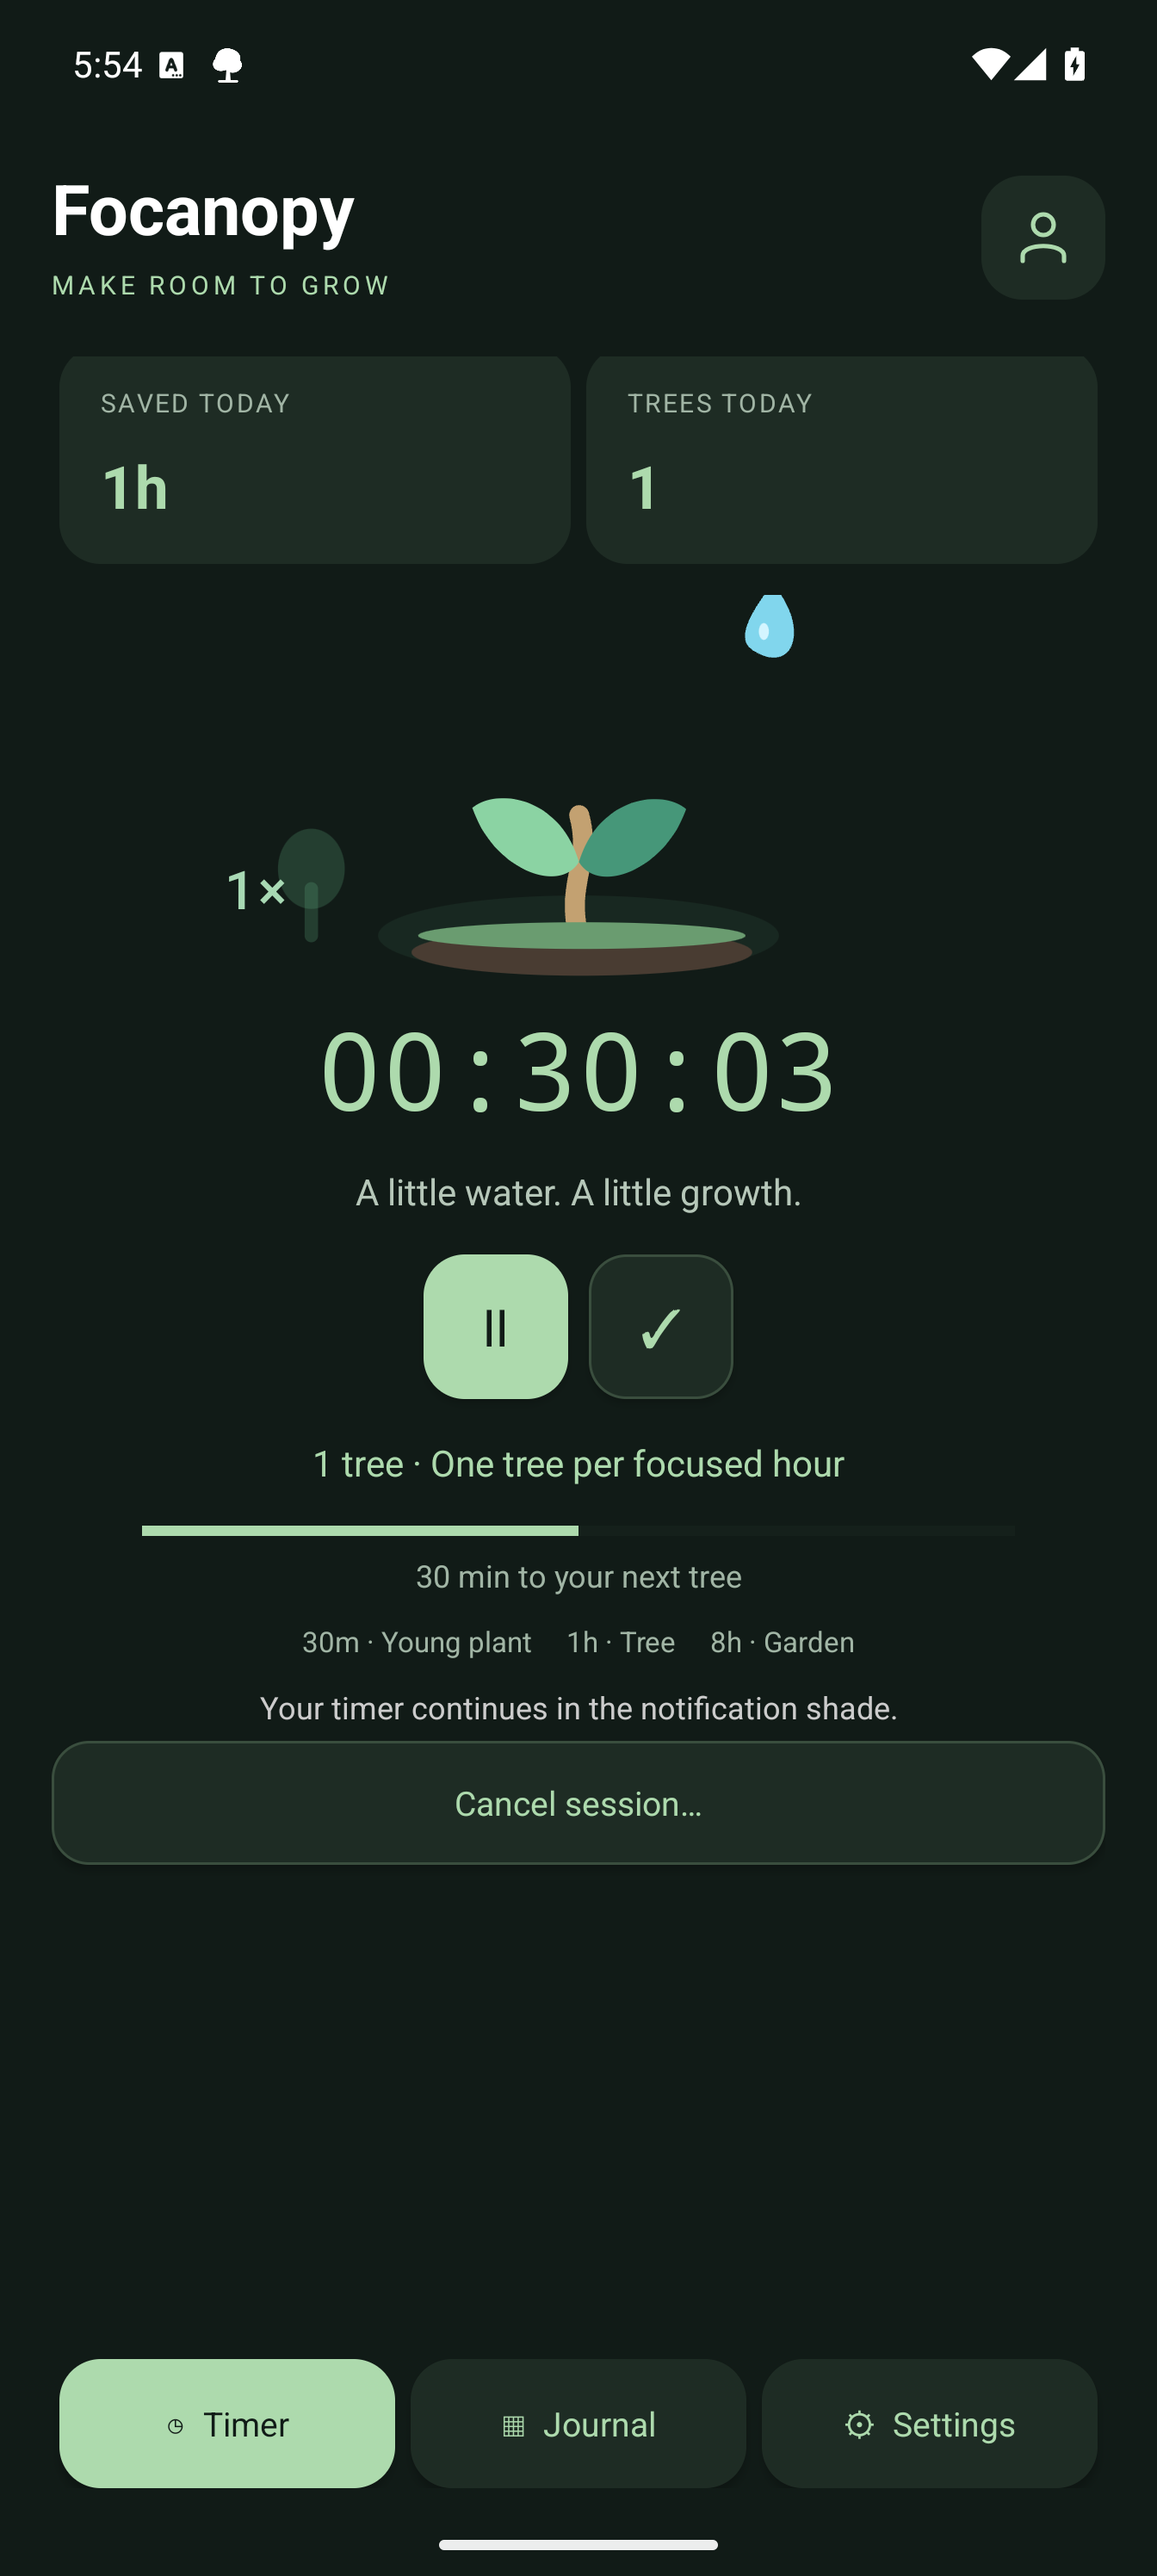
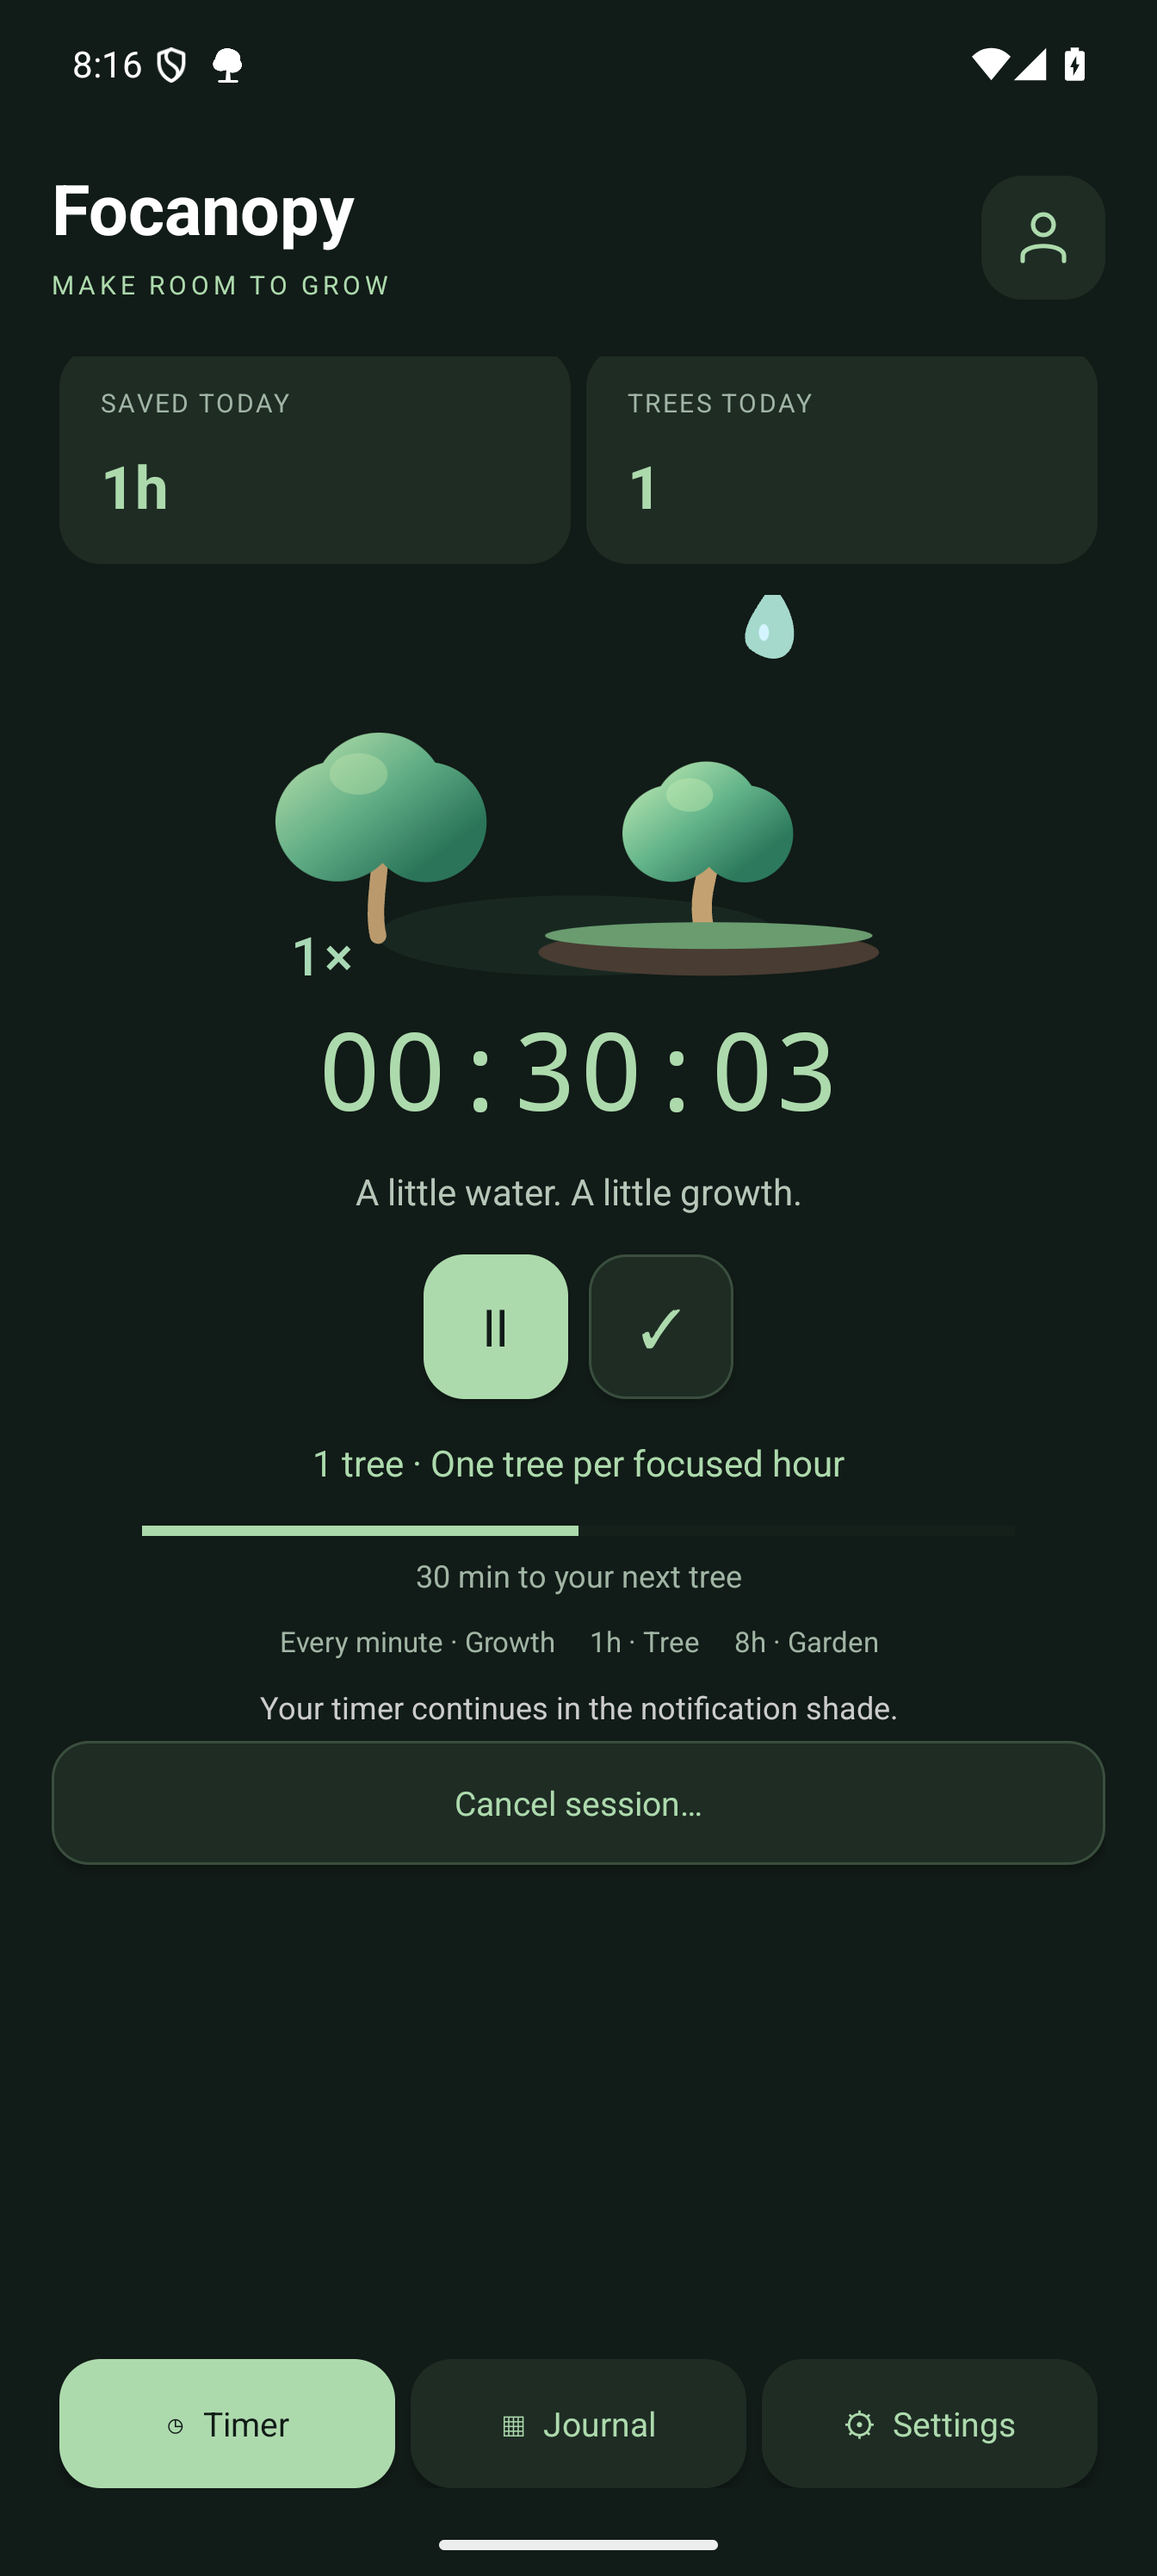
Polish finished-session controls and document native app screens

diff --git a/android/app/src/main/java/com/cybercat/stopwatch/MainActivity.kt b/android/app/src/main/java/com/cybercat/stopwatch/MainActivity.kt
@@ -179,13 +179,13 @@ class MainActivity: Activity() {
         growthBar=ProgressBar(this,null,android.R.attr.progressBarStyleHorizontal).apply { max=1000; progressTintList=android.content.res.ColorStateList.valueOf(cyan); progressBackgroundTintList=android.content.res.ColorStateList.valueOf(surface); contentDescription="Progress to next tree" }
         root.addView(growthBar,LinearLayout.LayoutParams(-1,dp(8)).apply { setMargins(dp(35),dp(8),dp(35),0) })
         growthHint=text("",12f,Color.rgb(161,181,165)).apply { gravity=Gravity.CENTER }; root.addView(growthHint); updateGrowth()
-        root.addView(text("30m · Young plant     1h · Tree     8h · Garden",11f,Color.rgb(161,181,165)).apply { gravity=Gravity.CENTER })
+        root.addView(text("Every minute · Growth     1h · Tree     8h · Garden",11f,Color.rgb(161,181,165)).apply { gravity=Gravity.CENTER })
         if(phase=="idle") {
             root.addView(text("Grow here, or take your tree with you.",13f,Color.LTGRAY).apply { gravity=Gravity.CENTER })
             root.addView(button("Floating tree options") { tab="Settings"; render() })
         } else {
-            root.addView(text("Your timer continues in the notification shade.",12f,Color.LTGRAY).apply { gravity=Gravity.CENTER })
-            root.addView(button("Cancel session…") { AlertDialog.Builder(this).setTitle("Discard this session?").setMessage("This session won’t be saved.").setNegativeButton("Keep session",null).setPositiveButton("Discard") { _,_-> safe { Repository.discard(); service("SYNC"); render() } }.show() })
+            root.addView(text(if(phase=="finished") "Session stopped · Save, resume or reset when you’re ready." else "Your timer continues in the notification shade.",12f,Color.LTGRAY).apply { gravity=Gravity.CENTER })
+            if(phase!="finished") root.addView(button("Cancel session…") { AlertDialog.Builder(this).setTitle("Discard this session?").setMessage("This session won’t be saved.").setNegativeButton("Keep session",null).setPositiveButton("Discard") { _,_-> safe { Repository.discard(); service("SYNC"); render() } }.show() })
         }
     }
     private fun saveDialog() {
@@ -208,7 +208,7 @@ class MainActivity: Activity() {
         }
         content.addView(text("Close to save later, resume, or reset from the timer screen.",12f,Color.LTGRAY))
         val dialog=AlertDialog.Builder(this).setIcon(R.mipmap.ic_launcher).setTitle("What did you work on?").setView(content).setNegativeButton("Close",null).setPositiveButton("Save",null).create()
-        dialog.setOnDismissListener { naming=false }
+        dialog.setOnDismissListener { naming=false; if(!isFinishing && !isDestroyed && Repository.engine.phase=="finished") render() }
         dialog.setOnShowListener { dialog.getButton(AlertDialog.BUTTON_POSITIVE).setOnClickListener {
             safe { val day=dayOf(Repository.started); Repository.save(name.text.toString()); service("SYNC"); dialog.dismiss(); tab="Journal"; selected=day; month=YearMonth.from(day); scope="Day"; render() }
         } }; dialog.show()

diff --git a/android/app/src/androidTest/java/com/cybercat/stopwatch/SmokeInstrumentation.kt b/android/app/src/androidTest/java/com/cybercat/stopwatch/SmokeInstrumentation.kt
@@ -79,6 +79,9 @@ class SmokeInstrumentation:Instrumentation() {
             val export=java.io.File(targetContext.filesDir,"export-test.json")
             runOnMainSync { MainActivity::class.java.getDeclaredMethod("onActivityResult",Int::class.javaPrimitiveType,Int::class.javaPrimitiveType,Intent::class.java).apply { isAccessible=true }.invoke(activity,42,Activity.RESULT_OK,Intent().setData(android.net.Uri.fromFile(export))) }
             check(JSONArray(export.readText()).getJSONObject(0).getString("name")=="MVP renamed")
+            runOnMainSync { find(activity.window.decorView,"Timer")!!.performClick();find(activity.window.decorView,"Start or resume")!!.performClick();find(activity.window.decorView,"Finish session")!!.performClick() }
+            waitForIdleSync();tap("Close");tap("Reset timer");tap("Reset")
+            check(Repository.engine.phase=="idle" && Repository.sessions.single().getString("name")=="MVP renamed")
             fun shell(command:String)=android.os.ParcelFileDescriptor.AutoCloseInputStream(uiAutomation.executeShellCommand(command)).bufferedReader().use { it.readText() }
             shell("appops set ${targetContext.packageName} SYSTEM_ALERT_WINDOW allow")
             runOnMainSync { find(activity.window.decorView,"Settings")!!.performClick();find(activity.window.decorView,"Show floating tree")!!.performClick() }

diff --git a/android/app/src/androidTest/java/com/cybercat/stopwatch/ForestInstrumentation.kt b/android/app/src/androidTest/java/com/cybercat/stopwatch/ForestInstrumentation.kt
@@ -48,6 +48,10 @@ class ForestInstrumentation:Instrumentation() {
             android.os.SystemClock.sleep(1500);waitForIdleSync()
             fun screenshot(name:String) { android.os.SystemClock.sleep(900); waitForIdleSync(); uiAutomation.takeScreenshot()!!.let { image -> targetContext.openFileOutput(name,0).use { image.compress(Bitmap.CompressFormat.PNG,100,it) };image.recycle() } }
             screenshot("android-timer.png")
+            runOnMainSync { find(activity.window.decorView,"Finish session")!!.performClick() }
+            waitForIdleSync();screenshot("android-save.png")
+            uiAutomation.rootInActiveWindow.findAccessibilityNodeInfosByText("Close").first { it.text?.toString()?.equals("Close",true)==true }.performAction(android.view.accessibility.AccessibilityNodeInfo.ACTION_CLICK)
+            waitForIdleSync();screenshot("android-finished.png")
             runOnMainSync { Repository.discard(); targetContext.startService(Intent(targetContext,TimerService::class.java).setAction("SYNC")); find(activity.window.decorView,"Journal")!!.performClick() }
             waitForIdleSync();screenshot("android-journal.png")
             runOnMainSync { find(activity.window.decorView,"Settings")!!.performClick() }

diff --git a/macos/Tools/RenderScreenshots.swift b/macos/Tools/RenderScreenshots.swift
@@ -35,6 +35,8 @@ import AppKit
         }
         try render(HistoryView(model: model), name: "macos-journal.png", width: 980, height: 800)
         try render(PetView(model: model, showOptions: { _ in }, primary: {}, finish: {}), name: "macos-pet.png", width: 150, height: 100)
+        model.start(); model.finish()
+        try render(PetView(model:model,showOptions:{ _ in },primary:{},finish:{}),name:"macos-finished.png",width:150,height:100)
         try render(GrowingTree(phase:.paused,elapsed:{2701}).scaleEffect(2.5),name:"macos-tree-paused.png",width:330,height:174)
         try render(GrowingTree(phase:.running,elapsed:{2701}).scaleEffect(2.5),name:"macos-tree-running.png",width:330,height:174)
         print("Rendered macOS native screenshots")

diff --git a/README.md b/README.md
@@ -1,5 +1,7 @@
 # Focanopy
 
+<img src="docs/screenshots/app-icon.png" alt="Focanopy tree app icon" width="96" />
+
 **Make room to grow.** An Android-first focus stopwatch that turns your time into a living forest, with native companion apps for macOS, Windows and Ubuntu.
 
 Focanopy combines **focus + canopy**: start a session, watch gentle water droplets nourish your tree, and build a garden from a day of focused work.
@@ -26,6 +28,8 @@ Screenshots are captured from the actual native Android app on an isolated Andro
 - **Useful history:** month calendar, Day/Week/Month summaries, daily trees, garden days, device totals, rename, delete confirmation and undo.
 - **Local data ownership:** atomic private JSON history and document-picker JSON export. Existing history is preserved on upgrade.
 - **Optional cloud account:** username + four-digit PIN; remembered secure login, offline changes, cross-device sessions, deletion sync and explicit conflict resolution.
+
+<img src="docs/screenshots/android-save.png" alt="Save session with the Focanopy app icon and task categories" width="260" /> <img src="docs/screenshots/android-finished.png" alt="Finished session with Save, Resume and Reset controls" width="260" />
 
 ### Grow a forest
 
